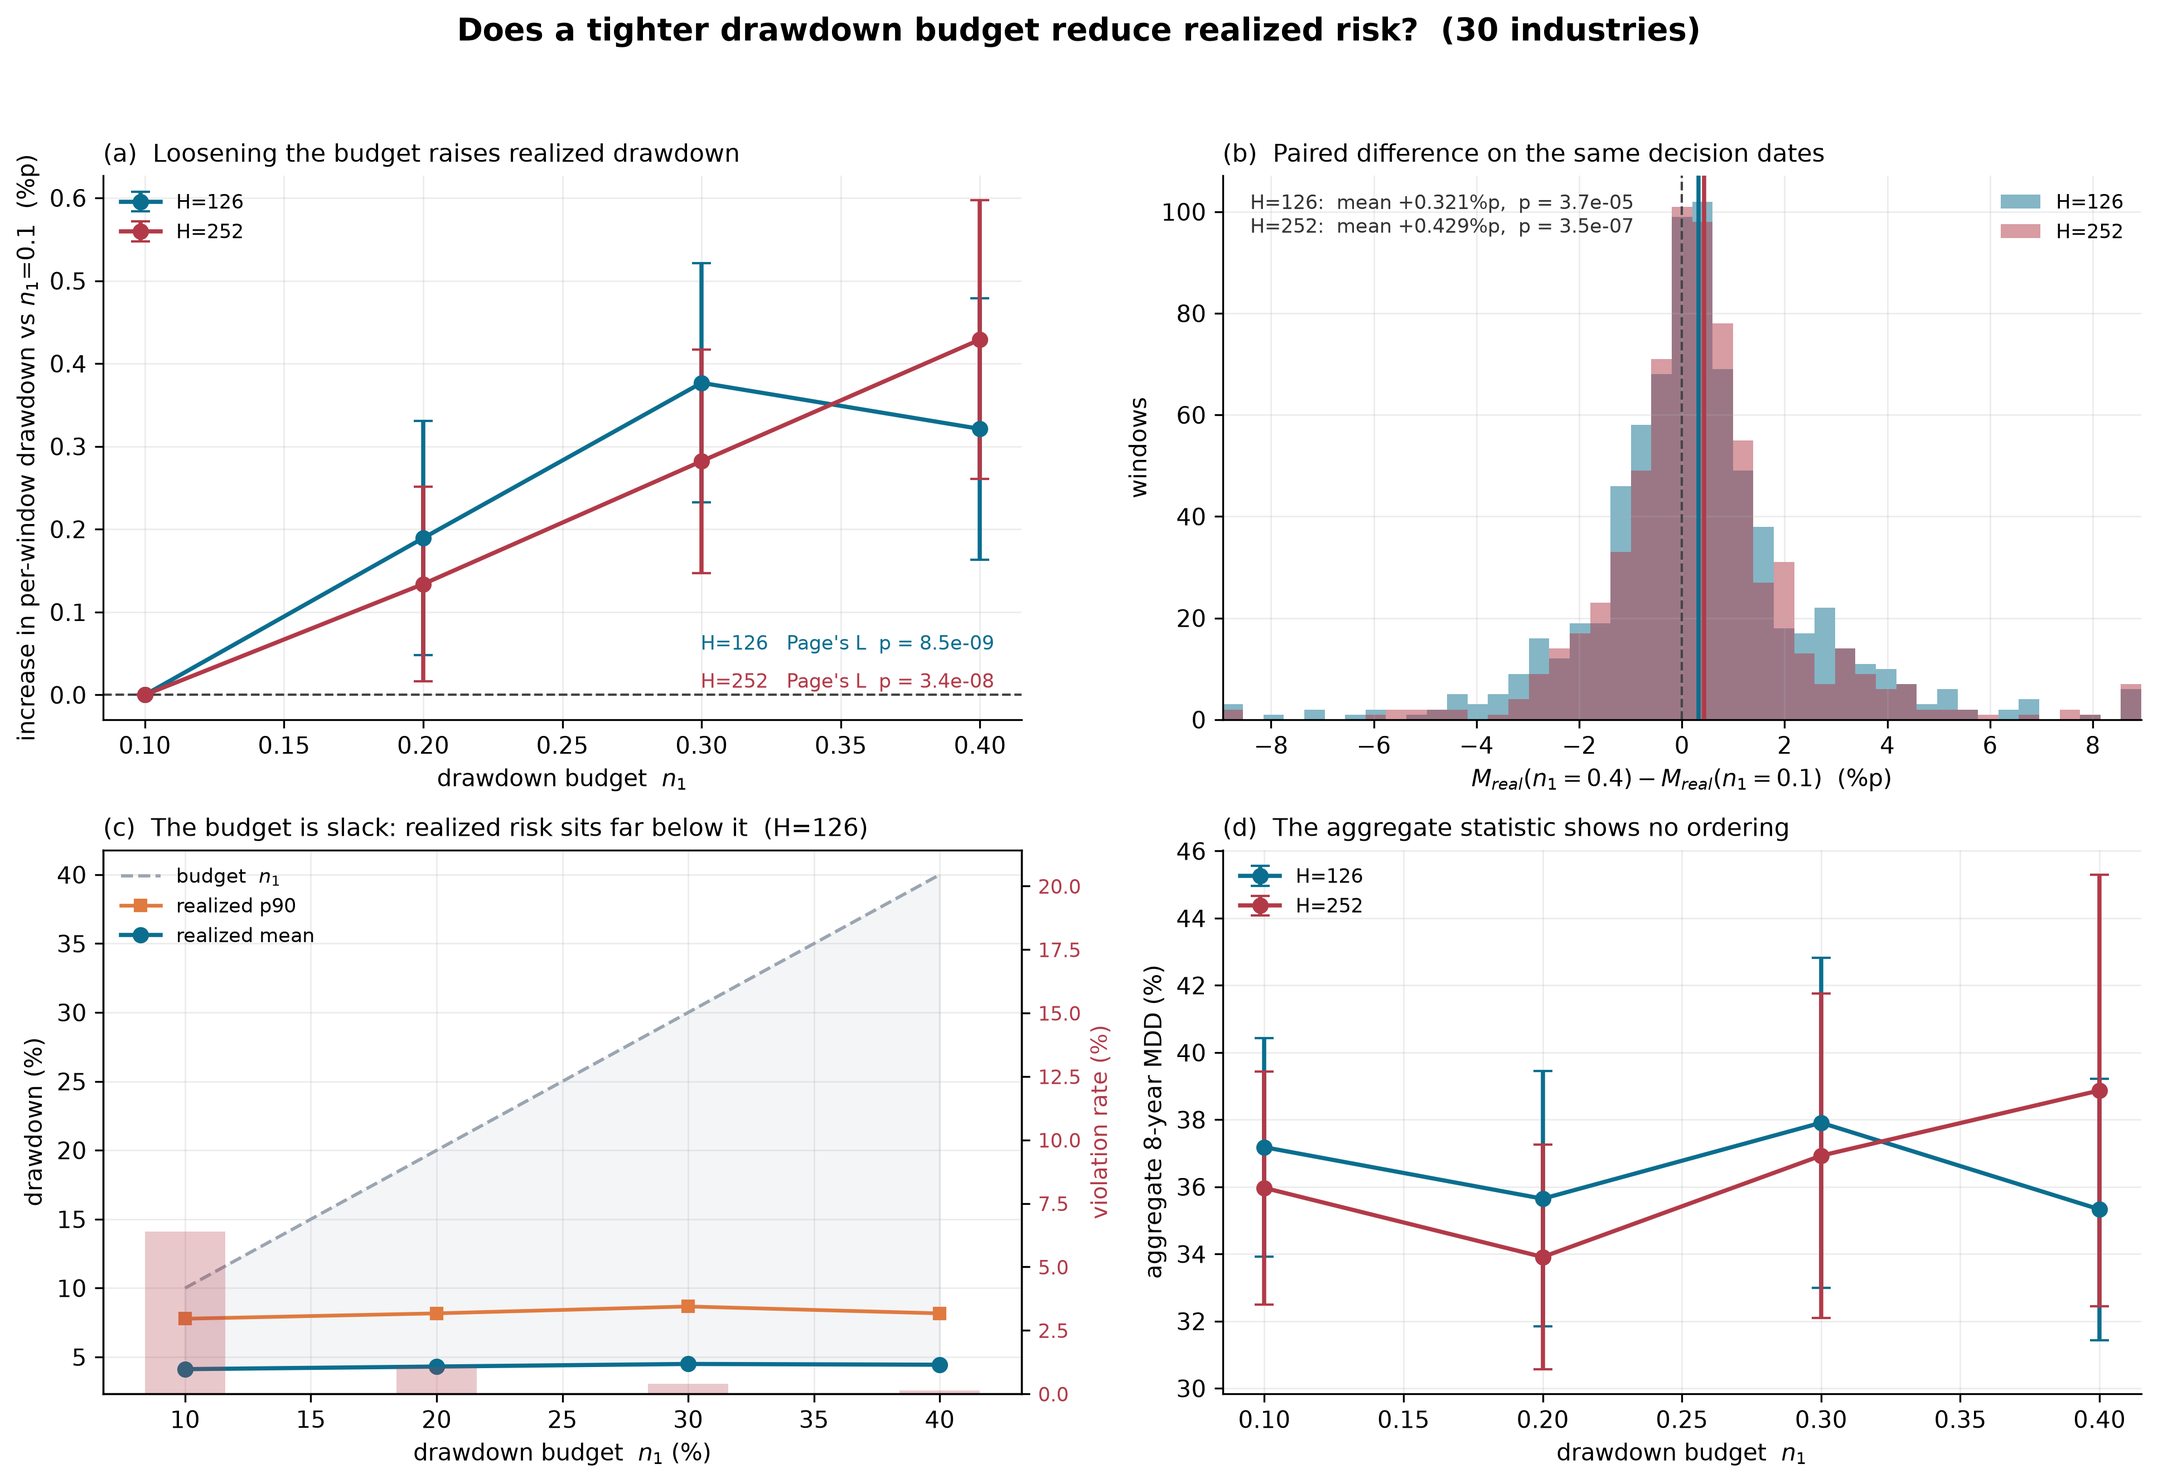
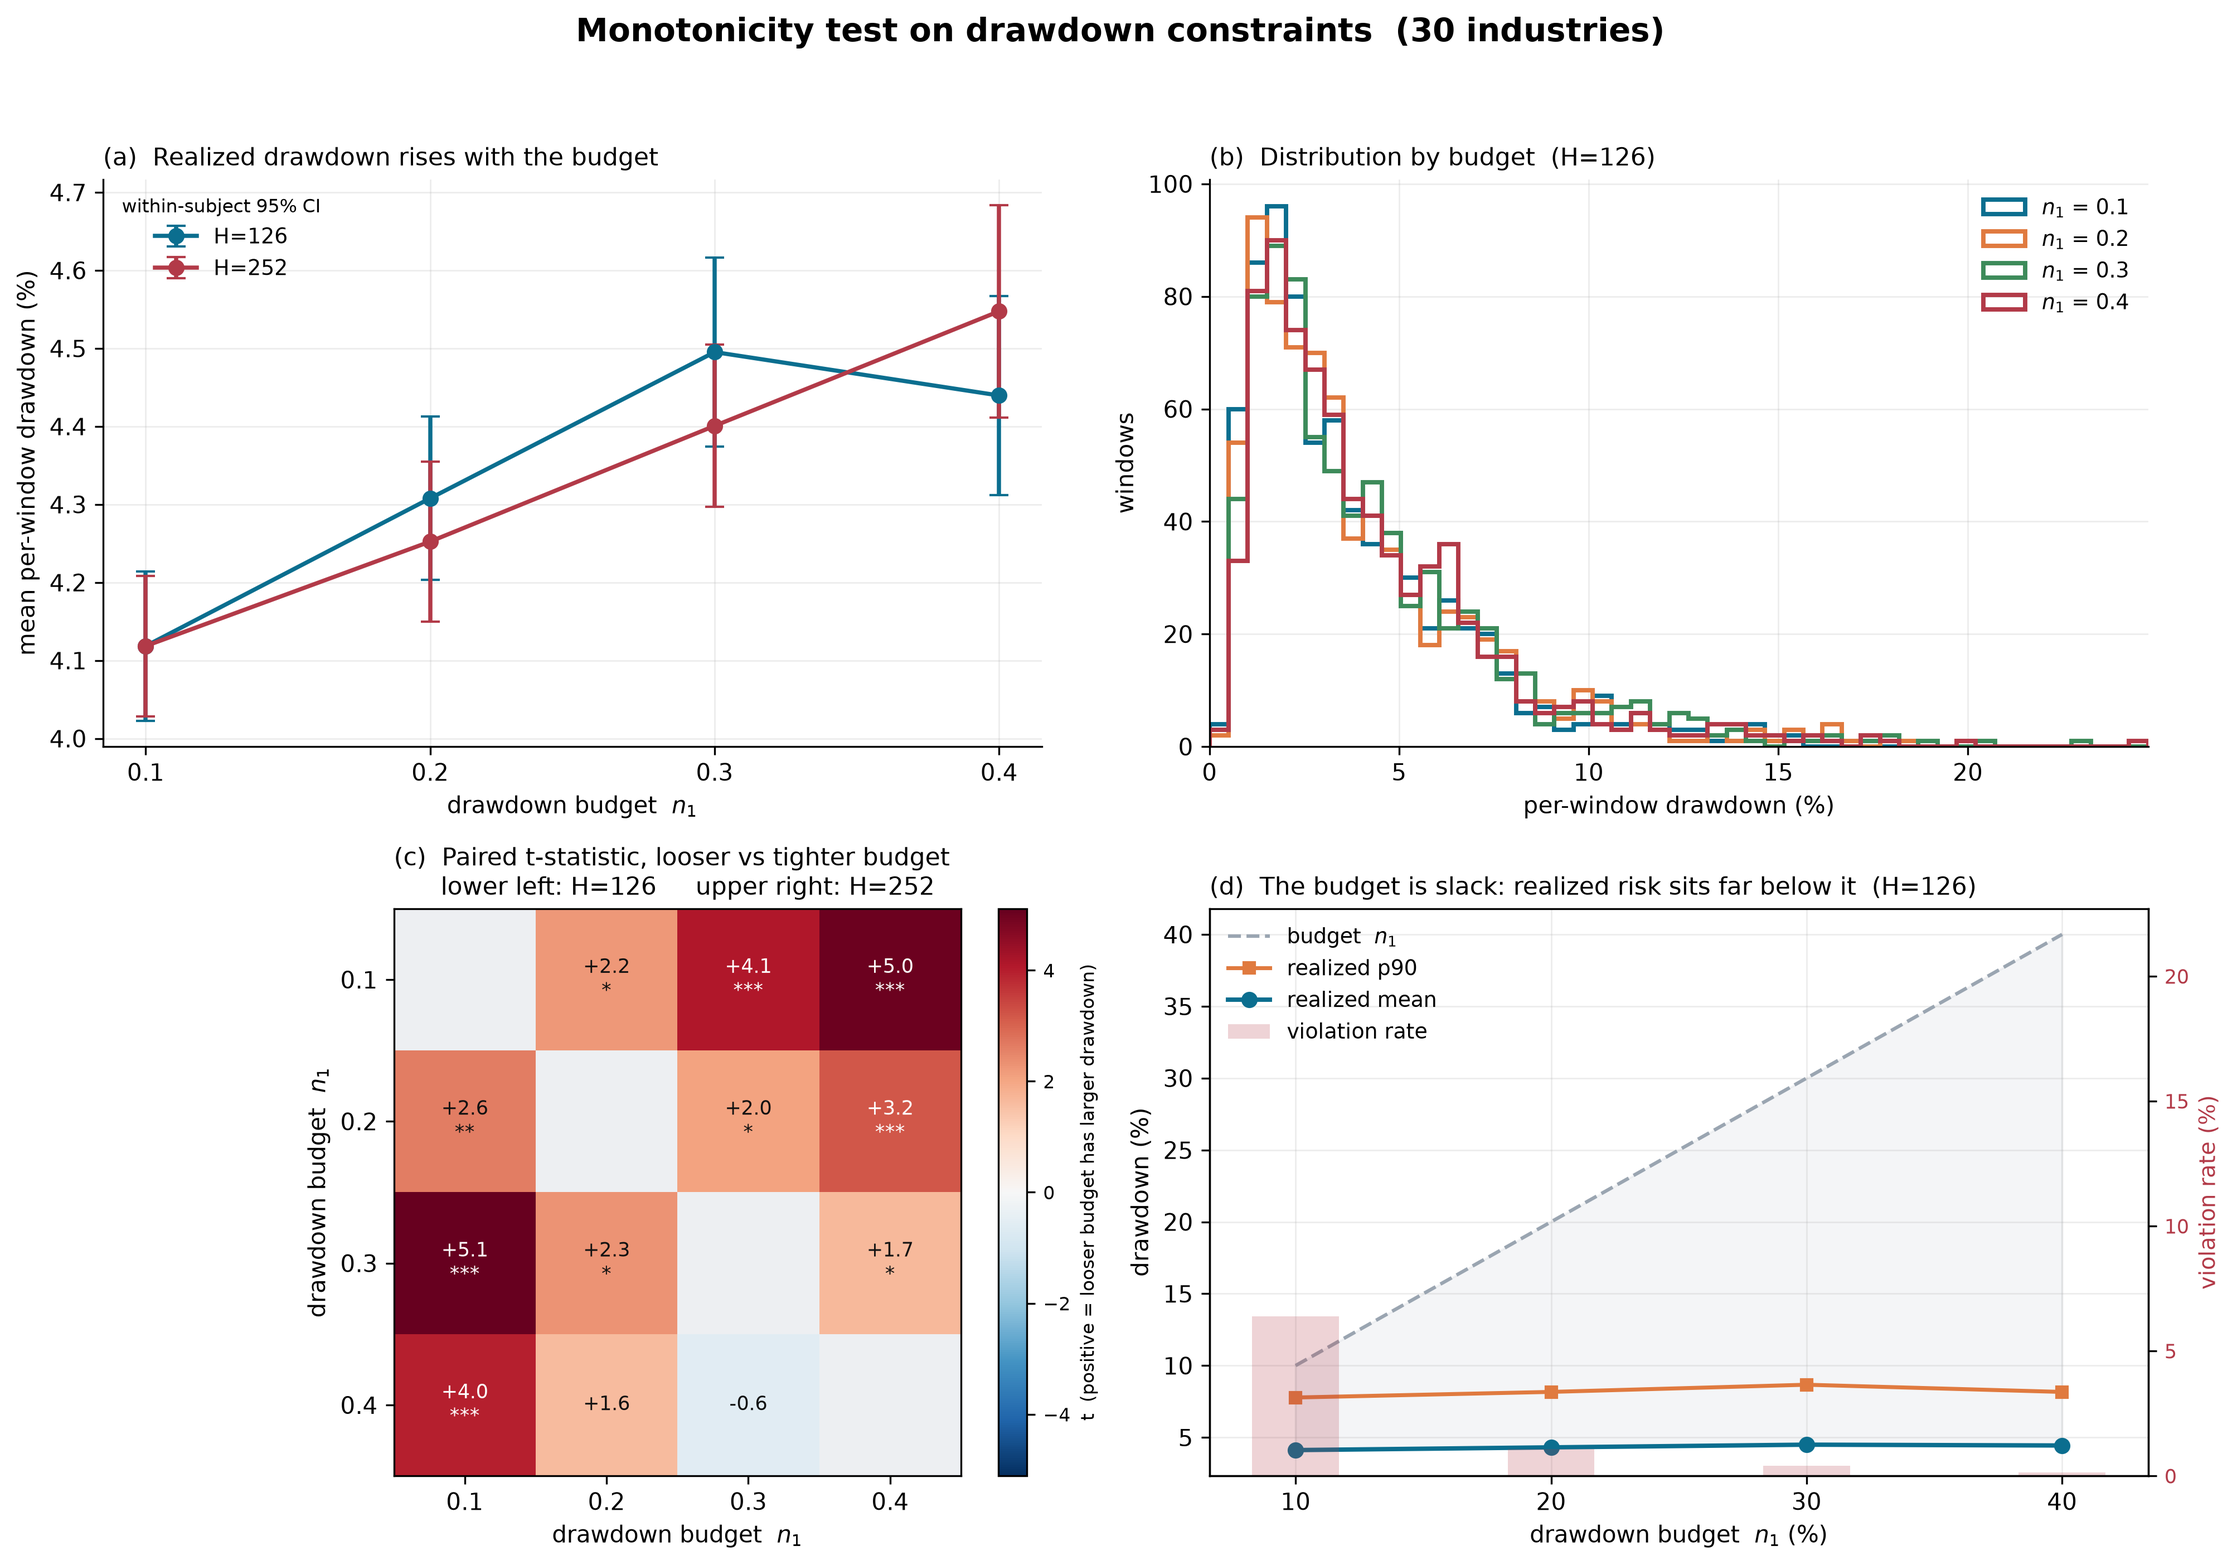
Revise the monotonicity figure
Panels now show absolute per-window levels with within-subject CIs, the drawdown distribution per budget, pairwise paired t-statistics as a heatmap, and the budget-slack view. Drops the in-plot annotations and the aggregate-MDD panel.

diff --git a/DFL-MDD/plot_n1_monotonicity.py b/DFL-MDD/plot_n1_monotonicity.py
@@ -1,12 +1,12 @@
 """
-Figure for Reviewer #2, comment 13.
+Figure for the drawdown-budget monotonicity test (Reviewer #2, comment 13).
 
-One figure per universe, four panels telling the whole argument:
+One figure per universe, four panels:
 
-  (a) mean per-window drawdown vs the budget n1, with 95% CI    -> monotone
-  (b) paired per-window difference, n1=0.4 minus n1=0.1         -> a real positive shift
-  (c) violation rate and realized drawdown vs the budget        -> constraint is slack
-  (d) aggregate eight-year maximum drawdown vs n1               -> no ordering
+  (a) mean per-window drawdown by budget n1, with within-subject 95% CI
+  (b) distribution of per-window drawdown, one colour per budget
+  (c) pairwise paired t-statistics as a heatmap (lower: H=126, upper: H=252)
+  (d) realized drawdown against the budget, with the violation rate
 
 Usage:
     python plot_n1_monotonicity.py [--outdir plots/n1_monotonicity]
@@ -19,124 +19,140 @@ import pandas as pd
 import matplotlib
 matplotlib.use("Agg")
 import matplotlib.pyplot as plt
+from matplotlib.colors import TwoSlopeNorm
 from scipy import stats
 
-from analyze_n1_monotonicity import (
-    load_long, to_blocks, page_trend_test, N1_LIST, LAM_LIST, LB_LIST,
-)
+from analyze_n1_monotonicity import load_long, to_blocks, N1_LIST
 
 H_COL = {126: "#0B6E8F", 252: "#B23A48"}
 N1_COL = dict(zip(N1_LIST, ["#0B6E8F", "#E07A3F", "#3D8B5A", "#B23A48"]))
-RESULT_DIR = "results"
 
 
-def agg_mdd(n_stocks, horizon):
-    """Mean eight-year MDD of DFL-MDD by n1 (TC=0, averaged over lam and LB)."""
-    tag = "" if (n_stocks == 10 and horizon == 126) else f"h{horizon}_"
-    f = f"{RESULT_DIR}/{n_stocks}_inds_{tag}tc_full_cf.csv"
-    d = pd.read_csv(f, encoding="utf-8-sig")
-    d = d[(d.tc_bps == 0) & (d.group == "DFL-MDD")].copy()
-    d["n1"] = d.label.str.extract(r"n1=([\d.]+)").astype(float)
-    return d.groupby("n1")["MDD(%)"].agg(["mean", "sem"])
+# ----------------------------------------------------------------------------
+def within_subject_ci(A, conf=1.96):
+    """Cousineau-Morey within-subject CI half-widths.
 
-
-def panel_trend(ax, blocks):
-    """Paired increment relative to the tightest budget.
-
-    The design is repeated measures, so the relevant uncertainty is the paired
-    standard error of the within-window difference, not the spread of drawdown
-    across dates. Plotting the increment makes the error bars match the test.
+    The design is repeated measures: the same decision date is evaluated under
+    every budget. Removing each block's own mean strips the between-date
+    variation that is common to all budgets, so the error bars reflect the
+    paired comparison the tests actually make. The Morey factor k/(k-1)
+    corrects the bias introduced by the normalisation.
     """
+    n, k = A.shape
+    Y = A - A.mean(axis=1, keepdims=True) + A.mean()
+    se = Y.std(axis=0, ddof=1) / np.sqrt(n)
+    return conf * se * np.sqrt(k / (k - 1))
+
+
+# ----------------------------------------------------------------------------
+def panel_levels(ax, blocks):
     for H, X in blocks.items():
-        base = X[N1_LIST[0]].values
-        m, lo, hi = [], [], []
-        for n1 in N1_LIST:
-            d = (X[n1].values - base) * 100
-            se = d.std(ddof=1) / np.sqrt(len(d))
-            m.append(d.mean()); lo.append(1.96 * se); hi.append(1.96 * se)
-        ax.errorbar(N1_LIST, m, yerr=[lo, hi], marker="o", ms=6, lw=1.8,
-                    capsize=4, color=H_COL[H], label=f"H={H}")
-    ax.axhline(0, color="#444", lw=1.0, ls="--")
-    for i, (H, X) in enumerate(blocks.items()):
-        _, _, p = page_trend_test(X.values)
-        ax.text(0.97, 0.12 - 0.07 * i, f"H={H}   Page's L  p = {p:.1e}",
-                transform=ax.transAxes, ha="right", va="bottom",
-                fontsize=8.5, color=H_COL[H])
+        A = X.values * 100
+        ax.errorbar(N1_LIST, A.mean(axis=0), yerr=within_subject_ci(A),
+                    marker="o", ms=6, lw=1.8, capsize=4,
+                    color=H_COL[H], label=f"H={H}")
+    ax.set_xticks(N1_LIST)
     ax.set_xlabel("drawdown budget  $n_1$")
-    ax.set_ylabel("increase in per-window drawdown vs $n_1$=0.1  (%p)")
-    ax.set_title("(a)  Loosening the budget raises realized drawdown",
+    ax.set_ylabel("mean per-window drawdown (%)")
+    ax.set_title("(a)  Realized drawdown rises with the budget",
                  fontsize=10.5, loc="left")
-    ax.legend(fontsize=8.5, frameon=False, loc="upper left")
+    ax.legend(fontsize=9, frameon=False, title="within-subject 95% CI",
+              title_fontsize=8)
 
 
-def panel_paired(ax, blocks):
-    all_d = np.concatenate([(X[N1_LIST[-1]].values - X[N1_LIST[0]].values) * 100
-                           for X in blocks.values()])
-    lim = np.percentile(np.abs(all_d), 99)
-    bins = np.linspace(-lim, lim, 46)
-    for H, X in blocks.items():
-        d = (X[N1_LIST[-1]].values - X[N1_LIST[0]].values) * 100
-        ax.hist(np.clip(d, -lim, lim), bins=bins, alpha=0.5,
-                color=H_COL[H], label=f"H={H}")
-        ax.axvline(d.mean(), color=H_COL[H], lw=1.8, ls="-")
-    ax.set_xlim(-lim, lim)
-    ax.axvline(0, color="#444", lw=1.0, ls="--")
-    txt = []
-    for H, X in blocks.items():
-        lo, hi = X[N1_LIST[0]].values, X[N1_LIST[-1]].values
-        t, p2 = stats.ttest_rel(hi, lo)
-        p = p2 / 2 if t > 0 else 1 - p2 / 2
-        txt.append(f"H={H}:  mean {100*(hi-lo).mean():+.3f}%p,  p = {p:.1e}")
-    ax.text(0.03, 0.97, "\n".join(txt), transform=ax.transAxes, va="top",
-            fontsize=8.5, color="#333")
-    ax.set_xlabel("$M_{real}(n_1{=}0.4) - M_{real}(n_1{=}0.1)$  (%p)")
+def panel_hist(ax, long126):
+    v = long126.M_real.values * 100
+    lim = np.percentile(v, 99)
+    bins = np.linspace(0, lim, 50)
+    for n1 in N1_LIST:
+        d = long126[long126.n1 == n1].M_real.values * 100
+        ax.hist(d[d <= lim], bins=bins, histtype="step", lw=1.9,
+                color=N1_COL[n1], label=f"$n_1$ = {n1}")
+    ax.set_xlim(0, lim)
+    ax.set_xlabel("per-window drawdown (%)")
     ax.set_ylabel("windows")
-    ax.set_title("(b)  Paired difference on the same decision dates",
+    ax.set_title("(b)  Distribution by budget  (H=126)",
                  fontsize=10.5, loc="left")
-    ax.legend(fontsize=8.5, frameon=False, loc="upper right")
+    ax.legend(fontsize=9, frameon=False)
 
 
-def panel_slack(ax, longs):
-    d = longs[126]
+def panel_heatmap(ax, blocks, fig):
+    """Pairwise paired t-statistics; lower triangle H=126, upper H=252."""
+    k = len(N1_LIST)
+    M = np.full((k, k), np.nan)
+    ann = np.empty((k, k), dtype=object)
+
+    for H, X in blocks.items():
+        A = X.values
+        for i in range(k):
+            for j in range(k):
+                if i == j:
+                    continue
+                lower = i > j                      # lower triangle
+                if (H == 126) != lower:
+                    continue
+                a, b = min(i, j), max(i, j)        # b is the looser budget
+                t, p2 = stats.ttest_rel(A[:, b], A[:, a])
+                p = p2 / 2 if t > 0 else 1 - p2 / 2
+                mark = "***" if p < .001 else "**" if p < .01 else "*" if p < .05 else ""
+                M[i, j] = t
+                ann[i, j] = f"{t:+.1f}\n{mark}" if mark else f"{t:+.1f}"
+
+    vmax = np.nanmax(np.abs(M))
+    im = ax.imshow(M, cmap="RdBu_r",
+                   norm=TwoSlopeNorm(vcenter=0, vmin=-vmax, vmax=vmax))
+    for i in range(k):
+        for j in range(k):
+            if i == j:
+                ax.add_patch(plt.Rectangle((j - .5, i - .5), 1, 1,
+                                           facecolor="#EDEFF2", edgecolor="none"))
+            elif ann[i, j]:
+                ax.text(j, i, ann[i, j], ha="center", va="center", fontsize=8.5,
+                        color="#111" if abs(M[i, j]) < vmax * .6 else "white")
+    ax.set_xticks(range(k), [str(v) for v in N1_LIST])
+    ax.set_yticks(range(k), [str(v) for v in N1_LIST])
+    ax.set_xlabel("drawdown budget  $n_1$")
+    ax.set_ylabel("drawdown budget  $n_1$")
+    ax.set_title("(c)  Paired t-statistic, looser vs tighter budget\n"
+                 "      lower left: H=126     upper right: H=252",
+                 fontsize=10.5, loc="left")
+    ax.grid(False)
+    cb = fig.colorbar(im, ax=ax, fraction=0.046, pad=0.04)
+    cb.set_label("t  (positive = looser budget has larger drawdown)", fontsize=8)
+    cb.ax.tick_params(labelsize=8)
+
+
+def panel_slack(ax, long126):
+    x = [n * 100 for n in N1_LIST]
+    mean = [long126[long126.n1 == n].M_real.mean() * 100 for n in N1_LIST]
+    p90 = [np.percentile(long126[long126.n1 == n].M_real, 90) * 100 for n in N1_LIST]
+    viol = [(long126[long126.n1 == n].M_real > n).mean() * 100 for n in N1_LIST]
+
     ax2 = ax.twinx()
-    mean = [d[d.n1 == n].M_real.mean() * 100 for n in N1_LIST]
-    p90 = [np.percentile(d[d.n1 == n].M_real, 90) * 100 for n in N1_LIST]
-    viol = [(d[d.n1 == n].M_real > n).mean() * 100 for n in N1_LIST]
-
-    ax.plot([n * 100 for n in N1_LIST], [n * 100 for n in N1_LIST], color="#9AA5B1",
-            ls="--", lw=1.4, label="budget  $n_1$")
-    ax.plot([n * 100 for n in N1_LIST], p90, marker="s", ms=5, lw=1.6,
-            color="#E07A3F", label="realized p90")
-    ax.plot([n * 100 for n in N1_LIST], mean, marker="o", ms=6, lw=1.8,
-            color="#0B6E8F", label="realized mean")
-    ax.fill_between([n * 100 for n in N1_LIST], mean, [n * 100 for n in N1_LIST],
-                    color="#9AA5B1", alpha=0.10)
-
-    ax2.bar([n * 100 for n in N1_LIST], viol, width=3.2, color="#B23A48",
-            alpha=0.28, zorder=0)
+    ax2.bar(x, viol, width=3.4, color="#B23A48", alpha=0.22, zorder=0,
+            label="violation rate")
     ax2.set_ylabel("violation rate (%)", color="#B23A48", fontsize=9.5)
     ax2.tick_params(axis="y", labelcolor="#B23A48", labelsize=8.5)
-    ax2.set_ylim(0, max(viol) * 3.2 + 1)
+    ax2.set_ylim(0, max(viol) * 3.4 + 1)
 
+    ax.plot(x, x, color="#9AA5B1", ls="--", lw=1.5, label="budget  $n_1$")
+    ax.fill_between(x, mean, x, color="#9AA5B1", alpha=0.10)
+    ax.plot(x, p90, marker="s", ms=5, lw=1.7, color="#E07A3F",
+            label="realized p90")
+    ax.plot(x, mean, marker="o", ms=6, lw=1.9, color="#0B6E8F",
+            label="realized mean")
+
+    h1, l1 = ax.get_legend_handles_labels()
+    h2, l2 = ax2.get_legend_handles_labels()
+    ax.legend(h1 + h2, l1 + l2, fontsize=9, frameon=False, loc="upper left")
+    ax.set_xticks(x)
     ax.set_xlabel("drawdown budget  $n_1$ (%)")
     ax.set_ylabel("drawdown (%)")
-    ax.set_title("(c)  The budget is slack: realized risk sits far below it  (H=126)",
+    ax.set_title("(d)  The budget is slack: realized risk sits far below it  (H=126)",
                  fontsize=10.5, loc="left")
-    ax.legend(fontsize=8.5, frameon=False, loc="upper left")
 
 
-def panel_agg(ax, n_stocks):
-    for H in (126, 252):
-        g = agg_mdd(n_stocks, H)
-        ax.errorbar(g.index, g["mean"], yerr=1.96 * g["sem"], marker="o", ms=6,
-                    lw=1.8, capsize=4, color=H_COL[H], label=f"H={H}")
-    ax.set_xlabel("drawdown budget  $n_1$")
-    ax.set_ylabel("aggregate 8-year MDD (%)")
-    ax.set_title("(d)  The aggregate statistic shows no ordering",
-                 fontsize=10.5, loc="left")
-    ax.legend(fontsize=8.5, frameon=False)
-
-
+# ----------------------------------------------------------------------------
 def main():
     ap = argparse.ArgumentParser()
     ap.add_argument("--outdir", default="plots/n1_monotonicity")
@@ -147,19 +163,21 @@ def main():
         longs = {H: load_long(n_stocks, H) for H in (126, 252)}
         blocks = {H: to_blocks(longs[H], False) for H in (126, 252)}
 
-        fig, axes = plt.subplots(2, 2, figsize=(13, 9))
-        panel_trend(axes[0, 0], blocks)
-        panel_paired(axes[0, 1], blocks)
-        panel_slack(axes[1, 0], longs)
-        panel_agg(axes[1, 1], n_stocks)
-        for ax in axes.ravel():
+        fig, axes = plt.subplots(2, 2, figsize=(13.5, 9.5))
+        panel_levels(axes[0, 0], blocks)
+        panel_hist(axes[0, 1], longs[126])
+        panel_heatmap(axes[1, 0], blocks, fig)
+        panel_slack(axes[1, 1], longs[126])
+
+        for ax in (axes[0, 0], axes[0, 1], axes[1, 1]):
             ax.grid(alpha=0.22, lw=0.7)
             for sp in ("top", "right"):
                 ax.spines[sp].set_visible(False)
-        axes[1, 0].spines["right"].set_visible(True)
+        axes[1, 1].spines["right"].set_visible(True)
 
-        fig.suptitle(f"Does a tighter drawdown budget reduce realized risk?  "
-                     f"({n_stocks} industries)", fontsize=13.5, fontweight="bold")
+        fig.suptitle(f"Monotonicity test on drawdown constraints  "
+                     f"({n_stocks} industries)",
+                     fontsize=14, fontweight="bold")
         plt.tight_layout(rect=[0, 0, 1, 0.95])
         out = f"{args.outdir}/n1_monotonicity_{n_stocks}_inds.png"
         fig.savefig(out, bbox_inches="tight", dpi=300)

diff --git a/DFL-MDD/sensitivity_results/README.md b/DFL-MDD/sensitivity_results/README.md
@@ -170,7 +170,7 @@ respected) to the 3-1 columns. `10_inds_h126_xmax_compare.csv` further adds `x_m
 | `dfl_mvo_delta_sweep_{N}_inds_h126.png` | **delta sweep**: DFL-MVO concentration (HHI) against delta |
 | `ranked_MDD_xmax_10_inds_h126_lam{L}.png` | the four x_max values side by side (10 inds) |
 | `cumret_xmax_10_inds_h126_lam{L}.png` | cumulative return by x_max (10 inds) |
-| `n1_monotonicity_{N}_inds.png` | four-panel summary of the drawdown-budget monotonicity analysis |
+| `n1_monotonicity_{N}_inds.png` | drawdown-budget monotonicity: (a) mean per-window drawdown by n1 with within-subject CI, (b) its distribution per n1, (c) pairwise paired t-statistics, (d) realized risk against the budget with the violation rate |
 
 In the original `plots/` folder some H=126 figures were saved under an early naming
 scheme with no horizon tag (for example `dfl_mdd_10_inds_0.3_CLARABEL_cf.png`). They
